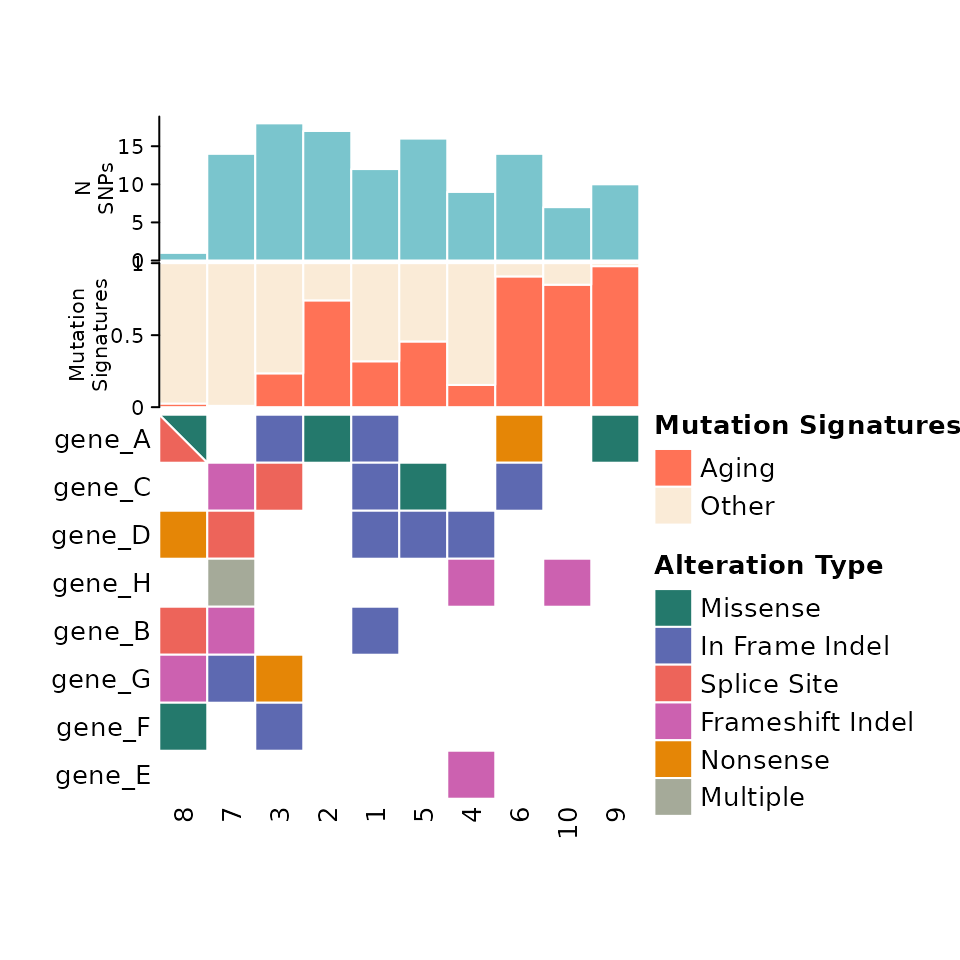
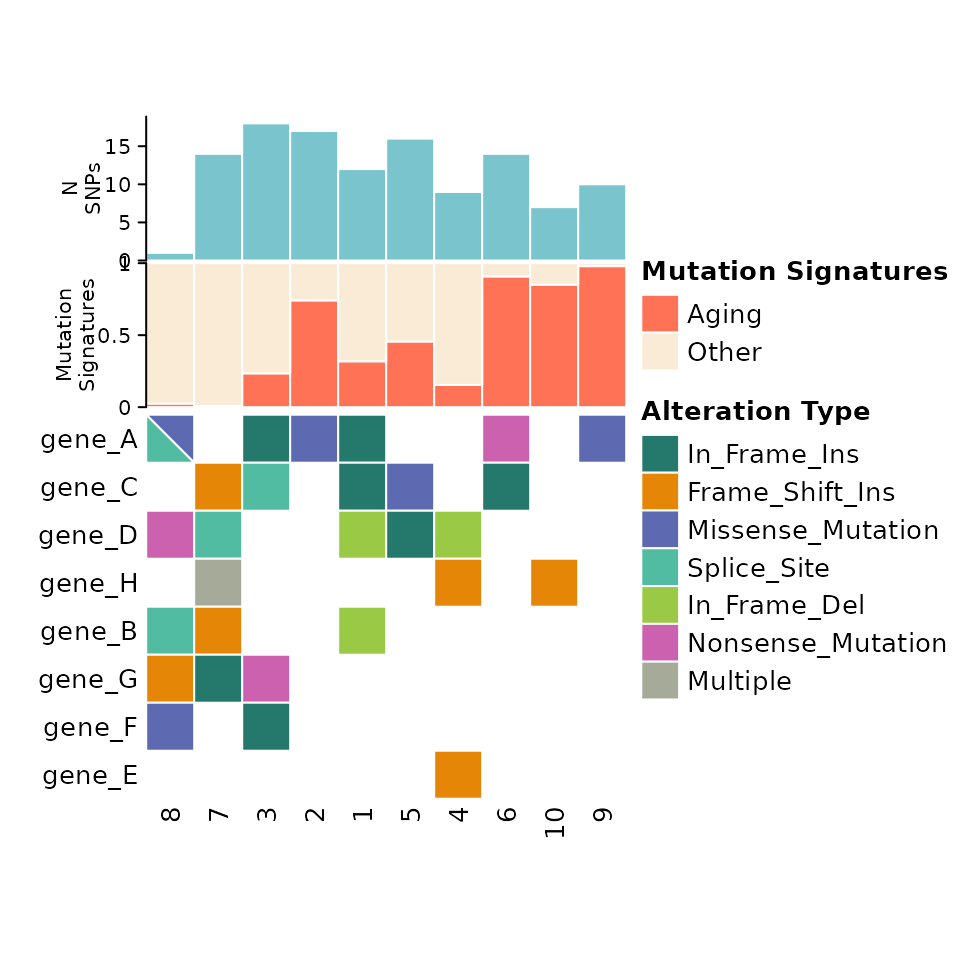
Deploying to gh-pages from @ taprati/ComutR@239a1077405e7b05e22d575a574157e6bda5d8b6 🚀

diff --git a/articles/ComutR.html b/articles/ComutR.html
@@ -59,8 +59,7 @@
     
     
 <div class="sourceCode" id="cb1"><pre class="downlit sourceCode r">
-<code class="sourceCode R"><span><span class="kw"><a href="https://rdrr.io/r/base/library.html" class="external-link">library</a></span><span class="op">(</span><span class="va"><a href="https://taprati.github.io/ComutR/">ComutR</a></span><span class="op">)</span></span>
-<span><span class="fu"><a href="https://rdrr.io/r/base/Random.html" class="external-link">set.seed</a></span><span class="op">(</span><span class="fl">1999</span><span class="op">)</span></span></code></pre></div>
+<code class="sourceCode R"><span><span class="kw"><a href="https://rdrr.io/r/base/library.html" class="external-link">library</a></span><span class="op">(</span><span class="va"><a href="https://taprati.github.io/ComutR/">ComutR</a></span><span class="op">)</span></span></code></pre></div>
 <div class="section level2">
 <h2 id="preparing-data-for-comut-plots">Preparing data for comut plots<a class="anchor" aria-label="anchor" href="#preparing-data-for-comut-plots"></a>
 </h2>
@@ -77,7 +76,9 @@ format</a></p>
 <h3 id="generating-mock-data">Generating mock data<a class="anchor" aria-label="anchor" href="#generating-mock-data"></a>
 </h3>
 <div class="sourceCode" id="cb2"><pre class="downlit sourceCode r">
-<code class="sourceCode R"><span><span class="va">sample_ids</span> <span class="op">&lt;-</span> <span class="fu"><a href="https://rdrr.io/r/base/character.html" class="external-link">as.character</a></span><span class="op">(</span><span class="fl">1</span><span class="op">:</span><span class="fl">10</span><span class="op">)</span></span>
+<code class="sourceCode R"><span><span class="fu"><a href="https://rdrr.io/r/base/Random.html" class="external-link">set.seed</a></span><span class="op">(</span><span class="fl">1999</span><span class="op">)</span></span>
+<span></span>
+<span><span class="va">sample_ids</span> <span class="op">&lt;-</span> <span class="fu"><a href="https://rdrr.io/r/base/character.html" class="external-link">as.character</a></span><span class="op">(</span><span class="fl">1</span><span class="op">:</span><span class="fl">10</span><span class="op">)</span></span>
 <span></span>
 <span><span class="va">gene_names</span> <span class="op">&lt;-</span> <span class="fu"><a href="https://rdrr.io/r/base/c.html" class="external-link">c</a></span><span class="op">(</span><span class="st">"A"</span>, <span class="st">"B"</span>, <span class="st">"C"</span>, <span class="st">"D"</span>, <span class="st">"E"</span>, <span class="st">"F"</span>, <span class="st">"G"</span>, <span class="st">"H"</span><span class="op">)</span></span>
 <span><span class="va">gene_names</span> <span class="op">&lt;-</span> <span class="fu"><a href="https://rdrr.io/r/base/paste.html" class="external-link">paste0</a></span><span class="op">(</span><span class="st">"gene_"</span>, <span class="va">gene_names</span><span class="op">)</span></span>
@@ -202,18 +203,16 @@ in which they are displayed in the plot!</p>
 <span>  data <span class="op">=</span> <span class="va">input_maf</span>,</span>
 <span>  barplot_data <span class="op">=</span> <span class="va">barplot_data</span></span>
 <span><span class="op">)</span></span></code></pre></div>
-<pre><code><span><span class="co">## Warning: Following annotation names are duplicated: value</span></span></code></pre>
 <p><img src="ComutR_files/figure-html/unnamed-chunk-3-1.png" width="480"></p>
 <p>Putting all of the components together, we get something like
 this:</p>
-<div class="sourceCode" id="cb10"><pre class="downlit sourceCode r">
+<div class="sourceCode" id="cb9"><pre class="downlit sourceCode r">
 <code class="sourceCode R"><span><span class="fu"><a href="../reference/comut.html">comut</a></span><span class="op">(</span></span>
 <span>  data <span class="op">=</span> <span class="va">input_maf</span>,</span>
 <span>  metadata <span class="op">=</span> <span class="va">meta</span>,</span>
 <span>  col_maps <span class="op">=</span> <span class="va">color_maps</span>,</span>
 <span>  barplot_data <span class="op">=</span> <span class="va">barplot_data</span></span>
 <span><span class="op">)</span></span></code></pre></div>
-<pre><code><span><span class="co">## Warning: Following annotation names are duplicated: value</span></span></code></pre>
 <p><img src="ComutR_files/figure-html/unnamed-chunk-4-1.png" width="480"></p>
 </div>
 <div class="section level2">
@@ -223,7 +222,7 @@ this:</p>
 of the comut plot. This can be specified as a column name that appears
 in the input data. Here we show adding allele fraction annotations to
 each mutation:</p>
-<div class="sourceCode" id="cb12"><pre class="downlit sourceCode r">
+<div class="sourceCode" id="cb10"><pre class="downlit sourceCode r">
 <code class="sourceCode R"><span><span class="va">input_maf</span><span class="op">$</span><span class="va">Allele_Fraction</span> <span class="op">&lt;-</span> <span class="fu"><a href="https://rdrr.io/r/base/Round.html" class="external-link">round</a></span><span class="op">(</span><span class="fu"><a href="https://rdrr.io/r/stats/Uniform.html" class="external-link">runif</a></span><span class="op">(</span><span class="fu"><a href="https://rdrr.io/r/base/nrow.html" class="external-link">nrow</a></span><span class="op">(</span><span class="va">input_maf</span><span class="op">)</span>, min <span class="op">=</span> <span class="fl">0.1</span>, max <span class="op">=</span> <span class="fl">1</span><span class="op">)</span>, <span class="fl">1</span><span class="op">)</span></span>
 <span></span>
 <span><span class="fu"><a href="../reference/comut.html">comut</a></span><span class="op">(</span></span>
@@ -241,22 +240,41 @@ user can specify the <code>ids</code> or
 <code>comut</code> will also fill in any ids or features that are not
 present in the input data. This can be especially useful when one wants
 to highlight a feature that is not altered in any samples.</p>
-<div class="sourceCode" id="cb13"><pre class="downlit sourceCode r">
+<div class="sourceCode" id="cb11"><pre class="downlit sourceCode r">
 <code class="sourceCode R"><span><span class="fu"><a href="../reference/comut.html">comut</a></span><span class="op">(</span></span>
 <span>  data <span class="op">=</span> <span class="va">input_maf</span>,</span>
 <span>  ids <span class="op">=</span> <span class="fu"><a href="https://rdrr.io/r/base/c.html" class="external-link">c</a></span><span class="op">(</span><span class="st">"1"</span>, <span class="st">"3"</span>, <span class="st">"4"</span>, <span class="st">"7"</span>, <span class="st">"missing_sample"</span><span class="op">)</span>,</span>
 <span>  features_of_interest <span class="op">=</span> <span class="fu"><a href="https://rdrr.io/r/base/c.html" class="external-link">c</a></span><span class="op">(</span><span class="st">"gene_A"</span>, <span class="st">"gene_B"</span>, <span class="st">"gene_E"</span>, <span class="st">"gene_H"</span>, <span class="st">"gene_missing"</span><span class="op">)</span></span>
-<span>  <span class="op">)</span></span></code></pre></div>
+<span><span class="op">)</span></span></code></pre></div>
 <p><img src="ComutR_files/figure-html/unnamed-chunk-6-1.png" width="480"></p>
 </div>
 <div class="section level2">
-<h2 id="comut-also-provide-many-arguments-for-the-plot-size-fontsize-and-other-options-">Comut also provide many arguments for the plot size, fontsize, and
-other options.<a class="anchor" aria-label="anchor" href="#comut-also-provide-many-arguments-for-the-plot-size-fontsize-and-other-options-"></a>
+<h2 id="color-schemes">Color schemes<a class="anchor" aria-label="anchor" href="#color-schemes"></a>
 </h2>
-<p><code>comut</code> also takes additional variable arguments for the
-call to <code>Heatmap</code>, so users can specify existing options like
-<code>row_names_rot</code>, etc.</p>
-<div class="sourceCode" id="cb14"><pre class="downlit sourceCode r">
+<p>By default, <code>comut</code> assigns colors from the <a href="https://loading.io/color/feature/Vivid-11" class="external-link">vivid</a> color scheme
+to the variant classifications in order of frequency. To specify a
+custom color scheme, the <code>variant_colors</code> argument is used.
+This can be used to explicitly show variant not seen in the dataset.</p>
+<div class="sourceCode" id="cb12"><pre class="downlit sourceCode r">
+<code class="sourceCode R"><span><span class="fu"><a href="../reference/comut.html">comut</a></span><span class="op">(</span></span>
+<span>  data <span class="op">=</span> <span class="va">input_maf</span>,</span>
+<span>  ids <span class="op">=</span> <span class="fu"><a href="https://rdrr.io/r/base/c.html" class="external-link">c</a></span><span class="op">(</span><span class="st">"1"</span>, <span class="st">"3"</span>, <span class="st">"4"</span>, <span class="st">"7"</span>, <span class="st">"missing_sample"</span><span class="op">)</span>,</span>
+<span>  features_of_interest <span class="op">=</span> <span class="fu"><a href="https://rdrr.io/r/base/c.html" class="external-link">c</a></span><span class="op">(</span><span class="st">"gene_A"</span>, <span class="st">"gene_B"</span>, <span class="st">"gene_E"</span>, <span class="st">"gene_H"</span>, <span class="st">"gene_missing"</span><span class="op">)</span>,</span>
+<span>  variant_colors <span class="op">=</span> <span class="fu"><a href="https://rdrr.io/r/base/c.html" class="external-link">c</a></span><span class="op">(</span></span>
+<span>    <span class="st">"In_Frame_Ins"</span> <span class="op">=</span> <span class="st">"lightblue"</span>,</span>
+<span>    <span class="st">"Frame_Shift_Ins"</span> <span class="op">=</span> <span class="st">"pink"</span>,</span>
+<span>    <span class="st">"Unseen Variant Class"</span> <span class="op">=</span> <span class="st">"purple"</span>,</span>
+<span>    <span class="st">"In_Frame_Del"</span> <span class="op">=</span> <span class="st">"lightgreen"</span></span>
+<span>  <span class="op">)</span></span>
+<span><span class="op">)</span></span></code></pre></div>
+<p><img src="ComutR_files/figure-html/unnamed-chunk-7-1.png" width="480"></p>
+</div>
+<div class="section level2">
+<h2 id="additional-options">Additional Options<a class="anchor" aria-label="anchor" href="#additional-options"></a>
+</h2>
+<p>Comut also provide many arguments for the plot size, fontsize, and
+other options.</p>
+<div class="sourceCode" id="cb13"><pre class="downlit sourceCode r">
 <code class="sourceCode R"><span><span class="fu"><a href="../reference/comut.html">comut</a></span><span class="op">(</span></span>
 <span>  data <span class="op">=</span> <span class="va">input_maf</span>,</span>
 <span>  metadata <span class="op">=</span> <span class="va">meta</span>,</span>
@@ -267,13 +285,16 @@ call to <code>Heatmap</code>, so users can specify existing options like
 <span>  cell_height <span class="op">=</span> <span class="fl">0.3</span>,</span>
 <span>  anno_fontsize <span class="op">=</span> <span class="fl">12</span>,</span>
 <span>  legend_fontsize <span class="op">=</span> <span class="fl">12</span>,</span>
-<span>  body_border <span class="op">=</span> <span class="cn">TRUE</span>,</span>
 <span>  add_borders <span class="op">=</span> <span class="cn">TRUE</span>,</span>
-<span>  row_names_rot <span class="op">=</span> <span class="fl">45</span>,</span>
-<span>  column_names_rot <span class="op">=</span> <span class="fl">0</span></span>
+<span>  body_border <span class="op">=</span> <span class="cn">TRUE</span></span>
+<span>  <span class="co"># row_names_rot = 30,</span></span>
+<span>  <span class="co"># column_names_rot = 0</span></span>
 <span><span class="op">)</span></span></code></pre></div>
-<pre><code><span><span class="co">## Warning: Following annotation names are duplicated: value</span></span></code></pre>
-<p><img src="ComutR_files/figure-html/unnamed-chunk-7-1.png" width="960"></p>
+<p><img src="ComutR_files/figure-html/unnamed-chunk-8-1.png" width="960"></p>
+<p><code>comut</code> also takes additional variable arguments for the
+call to <code>Heatmap</code>, so users can specify existing options like
+<code>row_names_rot</code>, <code>column_names_rot</code>,
+<code>body_border</code> etc.</p>
 </div>
   </main><aside class="col-md-3"><nav id="toc" aria-label="Table of contents"><h2>On this page</h2>
     </nav></aside>

diff --git a/reference/comut.html b/reference/comut.html
@@ -42,7 +42,6 @@
 <span>  <span class="va">data</span>,</span>
 <span>  <span class="va">metadata</span>,</span>
 <span>  <span class="va">variant_colors</span>,</span>
-<span>  <span class="va">variant_scheme</span>,</span>
 <span>  show_variant_legend <span class="op">=</span> <span class="cn">TRUE</span>,</span>
 <span>  <span class="va">col_maps</span>,</span>
 <span>  <span class="va">features_of_interest</span>,</span>
@@ -81,10 +80,6 @@
 
 <dt id="arg-variant-colors">variant_colors<a class="anchor" aria-label="anchor" href="#arg-variant-colors"></a></dt>
 <dd><p>colorscheme for alteration types, named list</p></dd>
-
-
-<dt id="arg-variant-scheme">variant_scheme<a class="anchor" aria-label="anchor" href="#arg-variant-scheme"></a></dt>
-<dd><p>naming scheme to convert alteration types. If provided should match variant_colors names</p></dd>
 
 
 <dt id="arg-show-variant-legend">show_variant_legend<a class="anchor" aria-label="anchor" href="#arg-show-variant-legend"></a></dt>
